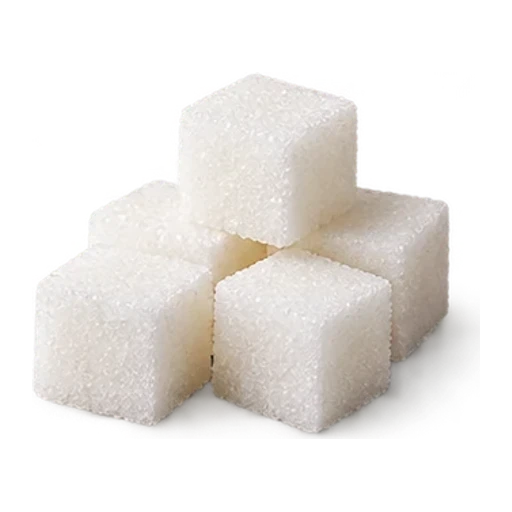
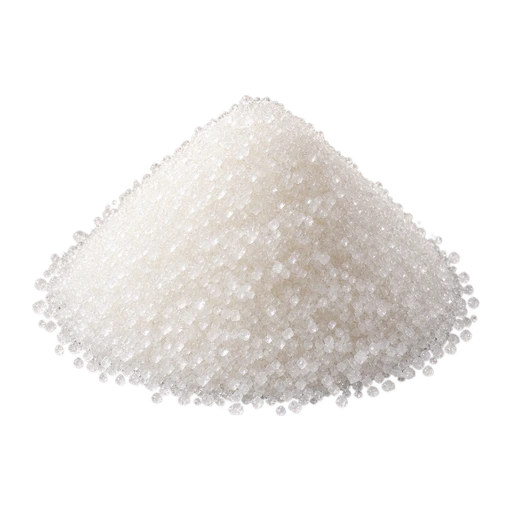
B1: audit ingredient visuals, fix red/green pepper mapping and sugar asset

diff --git a/tests/engine.test.ts b/tests/engine.test.ts
@@ -1,7 +1,13 @@
 import test from 'node:test';
 import assert from 'node:assert/strict';
+import fs from 'node:fs';
+import path from 'node:path';
 import { matchRecipe, rankRecipes, searchRecipe, shoppingList, restoreState } from '../src/engine.ts';
 import type { Recipe, Ingredient } from '../src/types.ts';
+
+const rootDir = path.resolve(import.meta.dirname, '..');
+const loadJson = <T>(relPath: string): T => JSON.parse(fs.readFileSync(path.join(rootDir, relPath), 'utf8')) as T;
+
 const recipe = {id:'tomato-eggs',name:'西红柿炒鸡蛋',aliases:['番茄炒蛋'],ingredients:[{id:'tomato',tier:'L1'},{id:'egg',tier:'L1'},{id:'salt',tier:'L1'},{id:'sugar',tier:'L3'}]} as Recipe;
 const ingredients = [{id:'tomato',name:'西红柿',aliases:['番茄']},{id:'egg',name:'鸡蛋',aliases:['鸡子']} ] as Ingredient[];
 test('缺必需材料不能被调料和可选项的数量掩盖',()=>{
@@ -32,4 +38,91 @@ test('本地数据异常时剔除旧ID、重复与非字符串内容',()=>{
 });
 test('没有必需项的异常菜谱不能显示材料齐全',()=>{
   assert.equal(matchRecipe({...recipe,ingredients:[]},[]).status,'partial');
+});
+
+type VisualEntry = {
+  label: string;
+  kind?: string;
+  src?: string;
+  short?: string;
+  ingredients?: string[];
+  source?: string;
+  sourcePath?: string;
+  note?: string;
+};
+
+test('所有食材与菜谱均有对应视觉条目且引用 ID 完整有效', () => {
+  const allIngredients = loadJson<Ingredient[]>('src/data/ingredients.json');
+  const allRecipes = loadJson<Recipe[]>('src/data/recipes.json');
+  const visuals = loadJson<Record<string, VisualEntry>>('src/data/visuals.json');
+  const ingredientIds = new Set(allIngredients.map(i => i.id));
+
+  assert.equal(allIngredients.length, ingredientIds.size);
+  assert.ok(visuals['scene:hero']?.src, '缺少主页山水场景图');
+
+  for (const ing of allIngredients) {
+    const entry = visuals[`ingredient:${ing.id}`];
+    assert.ok(entry, `缺少食材视觉配置: ingredient:${ing.id}`);
+    assert.ok(entry.label.includes(ing.name), `食材视觉标签应包含食材名称: ${ing.id}`);
+  }
+
+  for (const rec of allRecipes) {
+    const entry = visuals[`recipe:${rec.id}`];
+    assert.ok(entry, `缺少菜谱视觉配置: recipe:${rec.id}`);
+    for (const item of rec.ingredients) {
+      assert.ok(ingredientIds.has(item.id), `菜谱 ${rec.id} 引用了未知食材 ID: ${item.id}`);
+    }
+    if (entry.kind === 'ingredient-collage') {
+      assert.ok(entry.label.includes('主料示意'), `主料拼图菜谱必须标注“主料示意”: ${rec.id}`);
+      assert.ok(Array.isArray(entry.ingredients) && entry.ingredients.length > 0, `缺少主料示意列表: ${rec.id}`);
+      const recipeIngIds = new Set(rec.ingredients.map(i => i.id));
+      for (const ingId of entry.ingredients) {
+        assert.ok(recipeIngIds.has(ingId), `主料示意 ${rec.id} 包含非本菜食材: ${ingId}`);
+      }
+    } else if (entry.kind === 'recipe-photo') {
+      assert.ok(entry.label.includes('原谱照片'), `原谱成品照必须标注“原谱照片”: ${rec.id}`);
+      assert.ok(entry.source && entry.sourcePath, `原谱成品照应保留 source 与 sourcePath: ${rec.id}`);
+    }
+  }
+});
+
+test('所有视觉资源路径存在且 public/art 无孤立未引用文件', () => {
+  const visuals = loadJson<Record<string, VisualEntry>>('src/data/visuals.json');
+  const referenced = new Set<string>();
+
+  for (const [key, entry] of Object.entries(visuals)) {
+    if (entry.kind === 'text') {
+      assert.equal(entry.src, undefined, `文字占位不应携带 src: ${key}`);
+      assert.ok(entry.short, `文字占位缺少 short: ${key}`);
+      continue;
+    }
+    if (entry.kind === 'ingredient-collage') continue;
+    assert.ok(entry.src && entry.src.startsWith('/art/'), `图片条目应指向 /art/: ${key}`);
+    const filePath = path.join(rootDir, 'public', entry.src.replace(/^\//, ''));
+    assert.ok(fs.existsSync(filePath), `引用的资源文件不存在: ${entry.src} (${key})`);
+    referenced.add(path.basename(filePath));
+  }
+
+  const actualFiles = fs.readdirSync(path.join(rootDir, 'public', 'art'));
+  const orphaned = actualFiles.filter(f => !referenced.has(f));
+  assert.deepEqual(orphaned, [], `public/art 存在未引用的孤立文件: ${orphaned.join(', ')}`);
+});
+
+test('B1 图文核对回归：青椒红椒不错配、鸡翅中保留熟制参考、非酱油项不携带酱油备注', () => {
+  const visuals = loadJson<Record<string, VisualEntry>>('src/data/visuals.json');
+
+  assert.equal(visuals['ingredient:green-pepper']?.kind, 'text');
+  assert.equal(visuals['ingredient:red-pepper']?.src, '/art/red-pepper.webp');
+  assert.equal(visuals['ingredient:red-pepper']?.sourcePath, 'assets/webp/bell_pepper.webp');
+
+  const wings = visuals['ingredient:wings'];
+  assert.equal(wings?.kind, 'ingredient-photo');
+  assert.ok(wings?.label.includes('熟制参考'));
+  assert.equal(wings?.source, 'Anduin2017/HowToCook');
+  assert.ok(wings?.sourcePath?.includes('空气炸锅鸡翅中'));
+
+  for (const [key, entry] of Object.entries(visuals)) {
+    if (key === 'ingredient:soy' || key === 'ingredient:dark-soy') continue;
+    assert.ok(!(entry.note ?? '').includes('酱油包装'), `非酱油条目 ${key} 不应出现误复制的酱油包装备注`);
+  }
 });

diff --git a/docs/sources/B1_食材与菜品图文核对.md b/docs/sources/B1_食材与菜品图文核对.md
@@ -1,0 +1,129 @@
+# B1 核对记录：现有 46 种食材与 12 道菜的名称、图片与来源
+
+核对日期：2026-11-27  
+核对角色：电脑 B（任务分支 `data/ingredient-image-audit`）  
+核对基线：`main` 提交 `f3d7a50904d6fdb41128fbb248744591e8a1d9f2`
+
+---
+
+## 一、产品目标与核对说明（对应《产品定位与使用场景》第 8 节）
+
+1. **服务对象与情境**：面向使用“用手边食材安排下一顿饭”流程的家庭做饭者（选料 → 找菜 → 组桌 → 看做法）。这是项目当前已确定的方向与设计假设，本次核对属于直接可观察的数据与图文准确性问题。
+2. **解决的问题**：此前 `public/art/green-pepper.webp` 实图为红甜椒，导致“青椒”卡片与“酸辣土豆丝”主料示意均出现图物不符；同时 `visuals.json` 中全部 26 项 `culinary-assets` 食材误复制了“酱油包装为通用示意”备注，白糖使用方糖图而非更贴合中餐的砂糖图，鸡翅中缺少原图路径记录。修正后避免用户在快速选料和看主料示意时被错图误导，并为 B2 补图建立逐项清单。
+3. **验证与边界**：通过逐张人工目视检查全部 32 张 `.webp` 图像、核对上游固定提交 `catalog.json` 与原图、补充 `tests/engine.test.ts` 自动化一致性校验，以及本机 `pnpm dev` 页面实测验证。本次（B1）仅修正已有错图、同固定提交内更准确的替换及元数据记录，**未引入新的第三方仓库或新增菜谱**，其余缺图与形态待替换项留待 B2 分批补齐。
+
+---
+
+## 二、固定第三方来源与本次改动资产记录
+
+| 来源仓库 | 固定提交 | 许可 | 适用范围与声明 |
+| --- | --- | --- | --- |
+| `https://github.com/cosmintrica/culinary-assets` | `458d884cfdf8748b3fd8ccaf4726a47ca3a7ef09` | CC0-1.0 | 彩色食材素材；作者声明为 AI 生成后审阅整理，不称为手绘 |
+| `https://github.com/Anduin2017/HowToCook` | `58c1b9af7900a9489c340bca39ef94a9a62314b1` | Unlicense | 12 道菜谱文本、3 张对应原谱成品照、1 张空气炸锅鸡翅中熟制参考照 |
+| `https://github.com/LingDong-/shan-shui-inf` | `9f754d2b2e73495db7883d4d4055a7b0903b0454` | MIT | 主页水墨山水图 `screen001.jpg`（缩放、转 WebP 并在页面淡化） |
+
+本次 B1 涉及的文件变动与元数据检查（均为 WebP `VP8X + ALPH + VP8`，无 EXIF/XMP/GPS 个人元数据）：
+
+- `public/art/green-pepper.webp` → **重命名归位**为 `public/art/red-pepper.webp`
+  - 来源：`cosmintrica/culinary-assets@458d884cfdf8748b3fd8ccaf4726a47ca3a7ef09`，`assets/webp/bell_pepper.webp`（`alt.en: "Red bell pepper"`）
[1 lines of base64/hex data omitted]
+- `public/art/sugar.webp` → **替换**为同提交白砂糖图
+  - 来源：`cosmintrica/culinary-assets@458d884cfdf8748b3fd8ccaf4726a47ca3a7ef09`，`assets/webp/sugar_pile.webp`（`alt.en: "Sugar pile"`）
[1 lines of base64/hex data omitted]
+  - 改动原因：原用 `assets/webp/sugar.webp`（方糖），替换为白砂糖堆以匹配各菜谱“白糖 / 白砂糖”用量。
+- `public/art/ingredient-wings.webp` → **保留图像，补齐来源路径**
+  - 来源：`Anduin2017/HowToCook@58c1b9af7900a9489c340bca39ef94a9a62314b1`，`dishes/semi-finished/空气炸锅鸡翅中/鸡翅中_0.jpg`（熟制翅中参考）
[1 lines of base64/hex data omitted]
+
+---
+
+## 三、46 种食材逐项核对结果
+
+状态说明：
+- **准确**：名称、别名与实图内容一致。
+- **错图已修正**：原图与名称不符，已在 B1 修正或回退文字。
+- **已优化**：B1 已在同固定提交中替换为更准确形态。
+- **形态差异（保留示意）**：属同一食材但形态/品类有别，已在 `visuals.json` 如实标注，列为 B2 优先替换项。
+- **缺图（文字占位）**：当前无准确彩图，保持纯文字显示，列为 B2 补图清单。
+
+| # | ID | 中文名 | 分类 | 核对状态 | 当前视觉文件 / 类型 | 上游源文件（固定提交内） | 核对说明与 B2 建议 |
+| --- | --- | --- | --- | --- | --- | --- | --- |
+| 1 | `tomato` | 西红柿 | 蔬菜 | 准确 | `/art/tomato.webp` | `assets/webp/tomato.webp` | 实图为红色带蒂西红柿；已清除误复制的酱油备注 |
+| 2 | `potato` | 土豆 | 蔬菜 | 准确 | `/art/potato.webp` | `assets/webp/potato.webp` | 实图为两颗黄皮土豆；已清除误复制备注 |
+| 3 | `broccoli` | 西兰花 | 蔬菜 | 准确 | `/art/broccoli.webp` | `assets/webp/broccoli.webp` | 实图为整朵西兰花；已清除误复制备注 |
+| 4 | `cucumber` | 黄瓜 | 蔬菜 | 准确 | `/art/cucumber.webp` | `assets/webp/cucumber.webp` | 实图为黄瓜及切片；已清除误复制备注 |
+| 5 | `onion` | 洋葱 | 蔬菜 | 准确 | `/art/onion.webp` | `assets/webp/onion.webp` | 实图为黄皮洋葱及半切面；已清除误复制备注 |
+| 6 | `cabbage` | 包菜 | 蔬菜 | 准确 | `/art/cabbage.webp` | `assets/webp/cabbage.webp` | 实图为绿包菜及切块；已清除误复制备注 |
+| 7 | `pumpkin` | 南瓜 | 蔬菜 | 准确 | `/art/pumpkin.webp` | `assets/webp/pumpkin.webp` | 实图为橙色南瓜及切块；已清除误复制备注 |
+| 8 | `garlic` | 大蒜 | 蔬菜 | 准确 | `/art/garlic.webp` | `assets/webp/garlic.webp` | 实图为整头大蒜及蒜瓣；已清除误复制备注 |
+| 9 | `ginger` | 生姜 | 蔬菜 | 准确 | `/art/ginger.webp` | `assets/webp/ginger.webp` | 实图为鲜生姜及姜片；已清除误复制备注 |
+| 10 | `scallion` | 小葱 | 蔬菜 | 准确 | `/art/scallion.webp` | `assets/webp/spring_onion.webp` | 实图为三根香葱/小葱；已清除误复制备注 |
+| 11 | `green-pepper` | 青椒 | 蔬菜 | **错图已修正 → 缺图** | `text`（青椒） | 无 | 原挂 `bell_pepper`（红甜椒）错误，已移出并回退文字；**B2 优先补青椒图** |
+| 12 | `red-pepper` | 红椒 | 蔬菜 | **错图已修正 → 准确** | `/art/red-pepper.webp` | `assets/webp/bell_pepper.webp` | 原为无图文字；已将误挂于青椒的红甜椒图正确归位 |
+| 13 | `chili` | 小米辣 | 蔬菜 | 准确 | `/art/chili.webp` | `assets/webp/fresh_chili.webp` | 实图为鲜红尖辣椒；已清除误复制备注 |
+| 14 | `garlic-sprout` | 蒜苗 | 蔬菜 | 缺图（文字占位） | `text`（蒜苗） | 无 | 待 B2 补图（手撕包菜必需） |
+| 15 | `carrot` | 胡萝卜 | 蔬菜 | 准确 | `/art/carrot.webp` | `assets/webp/carrot.webp` | 实图为两根带叶胡萝卜；已清除误复制备注 |
+| 16 | `coriander` | 香菜 | 蔬菜 | 准确 | `/art/coriander.webp` | `assets/webp/cilantro.webp` | 实图为一束香菜；已清除误复制备注 |
+| 17 | `egg` | 鸡蛋 | 蛋奶豆制品 | 准确 | `/art/egg.webp` | `assets/webp/eggs.webp` | 实图为两枚褐壳鸡蛋；已清除误复制备注 |
+| 18 | `silken-tofu` | 内酯豆腐 | 蛋奶豆制品 | 形态差异（保留示意） | `/art/silken-tofu.webp` | `assets/webp/tofu.webp` | 源图标注 `Firm tofu`（带气孔老豆腐质感），已明示备注；**B2 建议补嫩豆腐图** |
+| 19 | `century-egg` | 皮蛋 | 蛋奶豆制品 | 缺图（文字占位） | `text`（皮蛋） | 无 | 待 B2 补图（皮蛋豆腐主料） |
+| 20 | `salted-egg` | 咸鸭蛋 | 蛋奶豆制品 | 缺图（文字占位） | `text`（咸鸭蛋） | 无 | 待 B2 补图（麻婆豆腐咸鸭蛋版必需） |
+| 21 | `wings` | 鸡翅中 | 肉类 | 准确（熟制参考） | `/art/ingredient-wings.webp` | `dishes/semi-finished/空气炸锅鸡翅中/鸡翅中_0.jpg` | 确认为两骨鸡翅中熟制形态，非鸡腿图；已补齐 `source`/`sourcePath` |
+| 22 | `pork-belly` | 五花肉 | 肉类 | 缺图（文字占位） | `text`（五花肉） | 无 | 待 B2 优先补图（手撕包菜/麻婆豆腐必需；`culinary-assets` 仅有 `pork_tenderloin` 里脊，不可冒充） |
+| 23 | `ham` | 火腿肠 | 肉类 | 缺图（文字占位） | `text`（火腿肠） | 无 | 待 B2 补图（蛋炒饭主料） |
+| 24 | `shrimp` | 虾仁 | 肉类 | 准确 | `/art/shrimp.webp` | `assets/webp/shrimp.webp` | 实图为 4 只去壳生虾仁；已清除误复制备注 |
+| 25 | `cooked-meat` | 熟肉 | 肉类 | 缺图（文字占位） | `text`（熟肉） | 无 | 待 B2 补图（蛋炒饭可选） |
+| 26 | `rice` | 冷饭 | 主食 | 形态差异（保留示意） | `/art/rice.webp` | `assets/webp/rice.webp` | 实图为碗装生大米，非熟制冷饭，已明示备注；**B2 优先补熟米饭图** |
+| 27 | `seaweed` | 干紫菜 | 主食 | 缺图（文字占位） | `text`（干紫菜） | 无 | 待 B2 优先补图（紫菜蛋花汤主料） |
+| 28 | `oil` | 食用油 | 调料 | 准确 | `/art/oil.webp` | `assets/webp/vegetable_oil.webp` | 实图为植物油壶（配葵花籽）；已清除误复制备注 |
+| 29 | `salt` | 盐 | 调料 | 准确 | `/art/salt.webp` | `assets/webp/salt.webp` | 实图为碗装白色食盐；已清除误复制备注 |
+| 30 | `sugar` | 白糖 | 调料 | **已优化 → 准确** | `/art/sugar.webp` | `assets/webp/sugar_pile.webp` | 原为方糖，B1 已替换为同提交白砂糖堆 |
+| 31 | `soy` | 生抽 / 酱油 | 调料 | 形态差异（共用示意） | `/art/soy.webp` | `assets/webp/soy_sauce.webp` | 与 `dark-soy` 共用同图（SHA256 前缀 `e1c245dac7d8`），仅保留在此类目说明 |
+| 32 | `dark-soy` | 老抽 | 调料 | 形态差异（共用示意） | `/art/dark-soy.webp` | `assets/webp/soy_sauce.webp` | 与 `soy` 共用同图；B2 如找到可区分深浅/标注的开源图可拆分 |
+| 33 | `vinegar` | 醋 | 调料 | 形态差异（保留示意） | `/art/vinegar.webp` | `assets/webp/vinegar.webp` | 实图为浅色醋瓶，与陈醋/镇江香醋色泽有别，已明示备注 |
+| 34 | `oyster` | 蚝油 | 调料 | 缺图（文字占位） | `text`（蚝油） | 无 | 待 B2 补图 |
+| 35 | `sesame-oil` | 香油 | 调料 | 准确 | `/art/sesame-oil.webp` | `assets/webp/sesame_oil.webp` | 实图为琥珀色油壶配芝麻；已清除误复制备注 |
+| 36 | `cooking-wine` | 料酒 | 调料 | 缺图（文字占位） | `text`（料酒） | 无 | 待 B2 补图 |
+| 37 | `cola` | 可乐 | 调料 | 缺图（文字占位） | `text`（可乐） | 无 | 待 B2 补图（可乐鸡翅必需；注意避免商标侵权） |
+| 38 | `chili-dried` | 干辣椒 | 调料 | 缺图（文字占位） | `text`（干辣椒） | 无 | 同提交仅有 `chili_flakes`（辣椒碎配单根干椒），暂保守留文字，待 B2 评估或补整根干辣椒图 |
+| 39 | `pepper` | 胡椒粉 | 调料 | 形态差异（保留示意） | `/art/pepper.webp` | `assets/webp/black_pepper.webp` | 实图为黑胡椒粒非粉状，已明示备注；**B2 建议补胡椒粉图** |
+| 40 | `sichuan-pepper` | 花椒 | 调料 | 缺图（文字占位） | `text`（花椒） | 无 | 待 B2 补图 |
+| 41 | `chili-sauce` | 蒜蓉辣酱 | 调料 | 缺图（文字占位） | `text`（蒜蓉辣酱） | 无 | 待 B2 补图 |
+| 42 | `chili-oil` | 辣椒油 | 调料 | 缺图（文字占位） | `text`（辣椒油） | 无 | 待 B2 补图 |
+| 43 | `peanuts` | 花生碎 | 调料 | 形态差异（保留示意） | `/art/peanuts.webp` | `assets/webp/peanuts_pile.webp` | 实图为整粒花生仁，已明示备注 |
+| 44 | `chicken-powder` | 鸡精 | 调料 | 缺图（文字占位） | `text`（鸡精） | 无 | 待 B2 补图 |
+| 45 | `starch` | 淀粉 | 调料 | 缺图（文字占位） | `text`（淀粉） | 无 | 待 B2 补图（`culinary-assets` 仅有 `flour` 面粉，不可混用） |
+| 46 | `dried-shrimp` | 虾皮 | 调料 | 缺图（文字占位） | `text`（虾皮） | 无 | 待 B2 补图 |
+
+统计汇总（B1 修正后，共 46 种食材）：
+- 准确彩图（含 1 项鸡翅中熟制参考）：**21 项**
+- 形态差异 / 共用通用示意（已明确备注，待 B2 细化）：**7 项**（`silken-tofu`、`rice`、`soy`、`dark-soy`、`vinegar`、`pepper`、`peanuts`）
+- 缺图文字占位（待 B2 分批补齐）：**18 项**（含回退后的 `green-pepper`；原缺图的 `red-pepper` 已归位）
+
+---
+
+## 四、12 道菜谱及场景图核对结果
+
+| # | ID | 菜谱名称 | 视觉类型 | 关联图片 / 主料组合 | 核对结果与说明 |
+| --- | --- | --- | --- | --- | --- |
+| 1 | `tomato-eggs` | 西红柿炒鸡蛋 | 主料示意 | `tomato`, `egg` | 准确（两张主料彩图完整准确） |
+| 2 | `onion-eggs` | 洋葱炒鸡蛋 | 原谱照片 | `/art/recipe-onion-eggs.webp` (`dishes/vegetable_dish/洋葱炒鸡蛋/1.jpeg`) | 准确（实图为洋葱炒蛋成品照，带葱花） |
+| 3 | `broccoli` | 蒜蓉西兰花 | 主料示意 | `broccoli`, `garlic` | 准确 |
+| 4 | `cucumber` | 凉拌黄瓜 | 主料示意 | `cucumber`, `garlic` | 准确 |
+| 5 | `century-tofu` | 皮蛋豆腐 | 主料示意 | `century-egg`, `silken-tofu` | 准确标注；皮蛋为文字占位，内酯豆腐暂用豆腐示意 |
+| 6 | `pumpkin` | 清蒸南瓜 | 主料示意 | `pumpkin` | 准确 |
+| 7 | `potato` | 酸辣土豆丝 | 主料示意 | `potato`, `garlic`, `red-pepper` | **B1 已修正**：原组合含误挂红甜椒图的 `green-pepper`；改为本菜同属必需材料（L1）且已归位准确彩图的 `red-pepper` |
+| 8 | `wings` | 可乐鸡翅 | 主料示意 | `wings`, `ginger`, `scallion` | 准确；`wings` 明确为空气炸锅鸡翅中熟制参考，未冒充可乐鸡翅成品照 |
+| 9 | `cabbage` | 手撕包菜（五花肉版） | 原谱照片 | `/art/recipe-cabbage.webp` (`dishes/vegetable_dish/手撕包菜/4.jpeg`) | 准确（实图可见包菜、五花肉片、小米辣与蒜苗） |
+| 10 | `mapo` | 麻婆豆腐（咸鸭蛋版） | 原谱照片 | `/art/recipe-mapo.webp` (`dishes/meat_dish/麻婆豆腐/1.jpeg`) | 准确（实图可见嫩豆腐、肉糜、小米辣与花椒） |
+| 11 | `fried-rice` | 蛋炒饭（火腿版） | 主料示意 | `rice`, `egg`, `ham` | 准确标注；`ham` 为文字占位，`rice` 暂为生米示意（待 B2 优化） |
+| 12 | `seaweed-soup` | 紫菜蛋花汤 | 主料示意 | `egg`, `seaweed`, `scallion` | 准确标注；`seaweed` 为文字占位（待 B2 补图） |
+| — | `scene:hero` | 山水淡墨 · Lingdong Huang | 背景山水 | `/art/ink-landscape.webp` (`screen001.jpg`) | 准确；页面水墨淡化，食物正常配色 |
+
+---
+
+## 五、B2 补图建议优先级（衔接下一任务）
+
+1. **P0（出现在主料示意卡片或高频常见主菜）**：`green-pepper`（青椒）、`pork-belly`（五花肉）、`century-egg`（皮蛋）、`ham`（火腿肠）、`seaweed`（干紫菜）、`salted-egg`（咸鸭蛋）、`rice`（熟米饭替换生大米）。
+2. **P1（高频基础食材/调料）**：`garlic-sprout`（蒜苗）、`oyster`（蚝油）、`cooking-wine`（料酒）、`chili-dried`（干辣椒）、`sichuan-pepper`（花椒）、`starch`（淀粉）。
+3. **P2（其余辅料及形态细化）**：`cola`（注意无商标风险）、`chili-sauce`、`chili-oil`、`chicken-powder`、`dried-shrimp`、`cooked-meat`，以及替换 `silken-tofu`（嫩豆腐）、`pepper`（胡椒粉）、`peanuts`（花生碎）。
